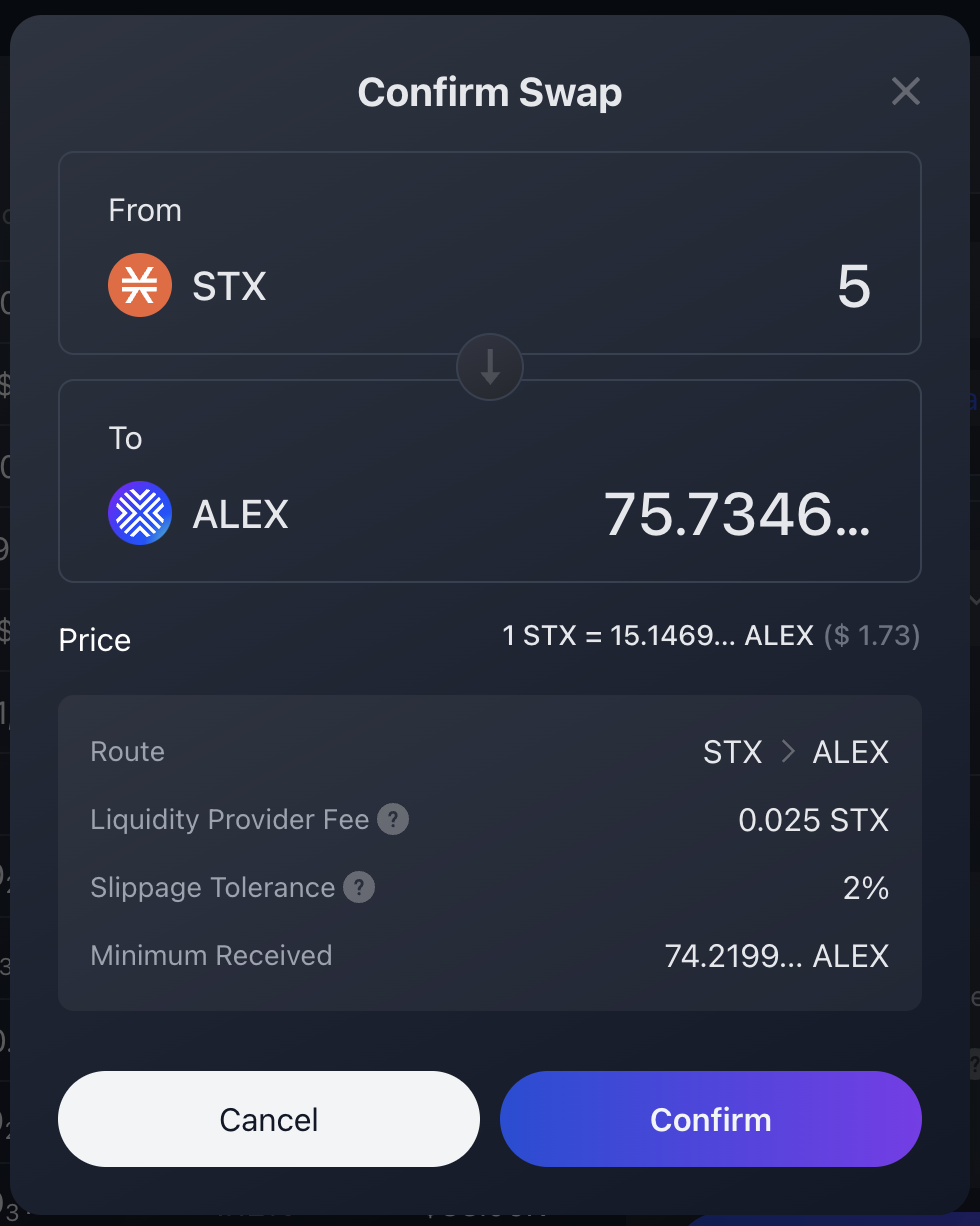
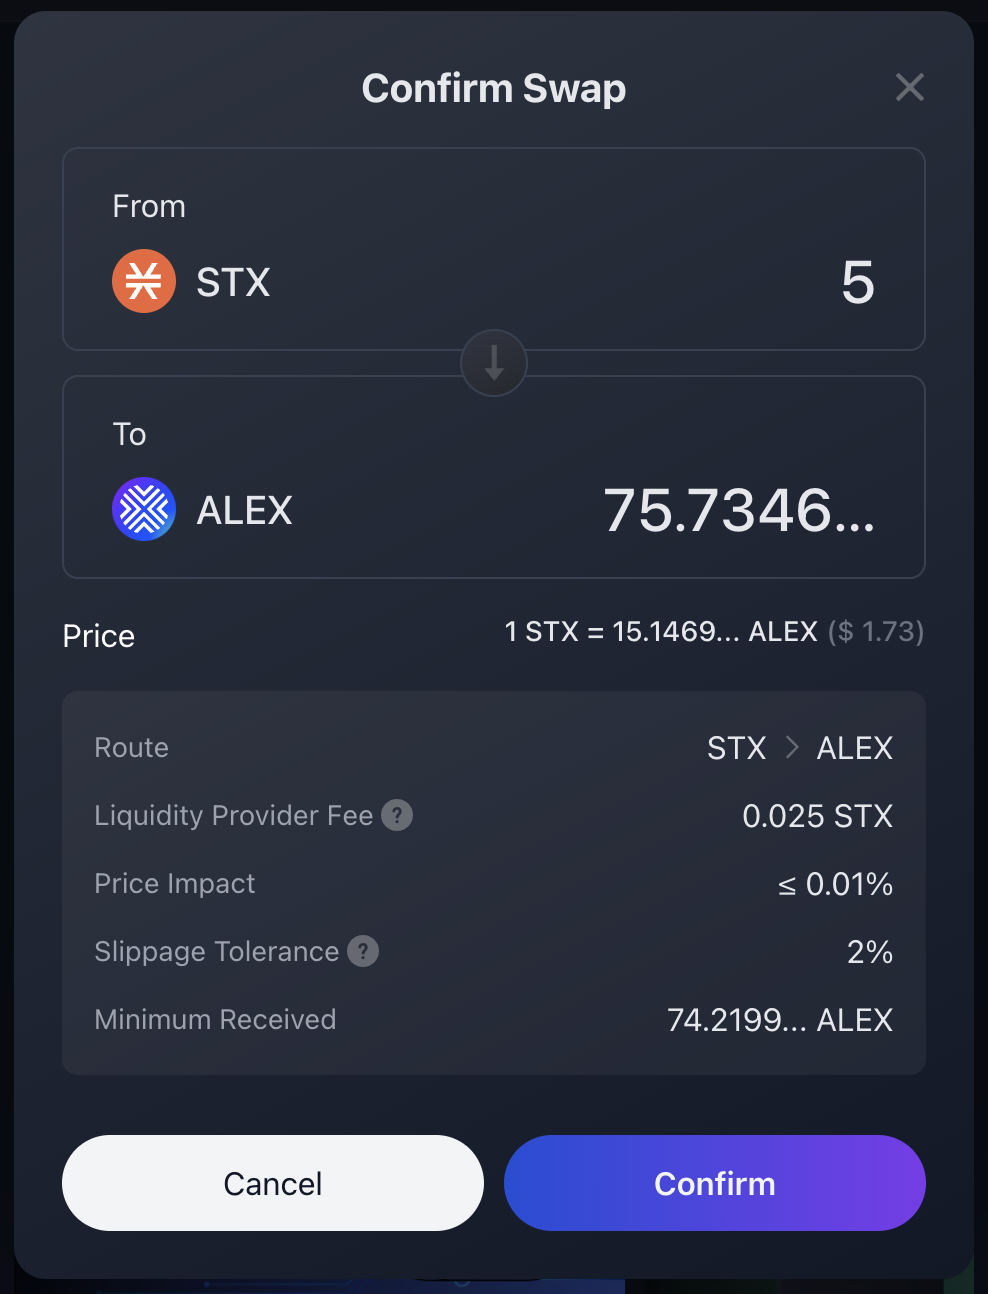
chore(token-swaps): address alex team review

diff --git a/product-features/token-swaps/key-concepts.md b/product-features/token-swaps/key-concepts.md
@@ -15,7 +15,7 @@ The ALEX DEX operates through smart contracts built on the Stacks blockchain, so
 
 ### Base Token
 
-The token you currently hold and want to exchange. Is the token you will transfer to ALEX smart contract during the swap transaction.
+The token you currently hold and want to exchange. This is the token you will transfer to the ALEX smart contract during the swap transaction.
 
 ### Target Token
 
@@ -23,11 +23,11 @@ Also known as the "quoted token", this is the token you will receive in the swap
 
 ### Exchange Rate
 
-The exchange rate determines how many target tokens you would receive for one base token. On ALEX DEX, this rate is algorithmically determined by the [ALEX Automated Market Maker (AMM)](../../detailed-information/alexs-automated-market-maker-amm.md) protocol and is updated after each swap.
+The exchange rate determines how many target tokens you would receive for one base token. On the ALEX DEX, this rate is algorithmically determined by the [ALEX Automated Market Maker (AMM)](../../detailed-information/alexs-automated-market-maker-amm.md) protocol and is updated after each swap.
 
 ### Swap Fee
 
-Is the cost associated with performing a swap. It is deducted from the base token amount and is tipically set at 0.5%, though it can vary depending on the token pair (liquidity pool) involved.
+This is the cost associated with performing a swap. It is deducted from the base token amount and is tipically set at 0.5%, though it can vary depending on the token pair (liquidity pool) involved.
 
 ### Swap Route
 
@@ -43,4 +43,4 @@ ALEX Lab Platform allows you to set a maximum percentage for slippage, which is 
 
 ### Price Impact
 
-The price impact refers to how much a swap affects the exhange rate. You might encounter it expressed as a percentage. For small swaps, price impact is typically negligible. However, for larger swaps, the price impact increases as the trade size approaches the pool's liquidity. This is why having a slippage tolerance is so important.
+The price impact refers to how much a swap affects the exchange rate. You might encounter it expressed as a percentage. For small swaps, price impact is typically negligible. However, for larger swaps, the price impact increases as the trade size approaches the pool's liquidity.

diff --git a/product-features/token-swaps/how-to.md b/product-features/token-swaps/how-to.md
@@ -51,7 +51,8 @@ Check the transaction details by clicking the dropdown "Details" arrow below the
 
 * **Route:** The exchange route to convert from the base token into the target token. In the example we see STX -> ALEX, indicating it is a one-step or direct swap.&#x20;
 * **Liquidity Provider Fee:** The swap fee, which is shared between the Liquidity Providers (LPs) and the ALEX Lab Platform.&#x20;
-* **Slippage Tolerance:** The maximum percentage of price movement you'll accept between the time you submit the transaction and its execution. The standard slippage tolerance is 4%, but you can select a custom percentage. If price movement exceeds the slippage tolerance, the transaction will be reverted.
+* **Price Impact:** How much your swap affects the exchange rate.
+* **Slippage Tolerance:** The maximum percentage of price movement you'll accept between the time you submit the transaction and its execution. The default slippage tolerance setting is 4%, but you can select a custom percentage. If price movement exceeds the slippage tolerance, the transaction will be reverted.
 * **Minimum Received:** The minimum amount of target token you will receive considering the maximum slippage variation.
 
 <figure><img src="../../.gitbook/assets/token-swaps/3-tx-details.png" alt="" width="375"><figcaption><p>Swap panel with Transaction Details panel expanded.</p></figcaption></figure>
@@ -100,8 +101,8 @@ Wait for the transaction to be confirmed on the network.
 {% hint style="info" %}
 Recommended to track transaction status:
 
-* Turn on Telegram notifications, you will get notified when the transaction is confirmed.
-* Search for the transaction on [explorer](https://explorer.hiro.so).
+* Turn on [Telegram notifications](https://t.me/stacks_tx_notification_bot), you will get notified when the transaction is confirmed.
+* Search for the transaction on the [ALEX Explorer](https://app.alexlab.co/explorer).
 * Check your address activity on the wallet.
 {% endhint %}
 

diff --git a/product-features/liquidity-providers/how-to.md b/product-features/liquidity-providers/how-to.md
@@ -94,7 +94,7 @@ Wait for the transaction to be confirmed on the network.&#x20;
 Recommended to track transaction status:
 
 * Turn on [Telegram notifications](https://t.me/stacks_tx_notification_bot), you will get notified when the transaction is confirmed.&#x20;
-* Search for the transaction on [explorer](https://explorer.hiro.so). &#x20;
+* Search for the transaction on the [ALEX Explorer](https://app.alexlab.co/explorer). &#x20;
 * Check your address activity on the wallet.
 {% endhint %}
 
@@ -192,7 +192,7 @@ Wait for the transaction to be confirmed on the network.&#x20;
 Recommended to track transaction status:
 
 * Turn on [Telegram notifications](https://t.me/stacks_tx_notification_bot), you will get notified when the transaction is confirmed.&#x20;
-* Search for the transaction on [explorer](https://explorer.hiro.so). &#x20;
+* Search for the transaction on the [ALEX Explorer](https://app.alexlab.co/explorer). &#x20;
 * Check your address activity on the wallet.
 {% endhint %}
 
